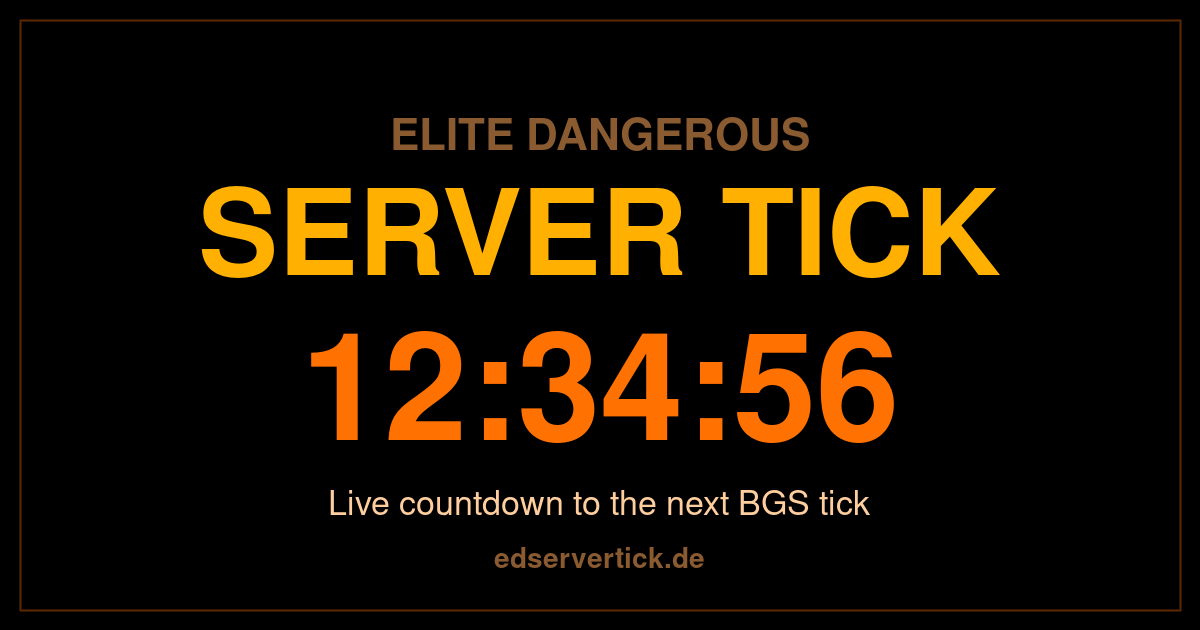
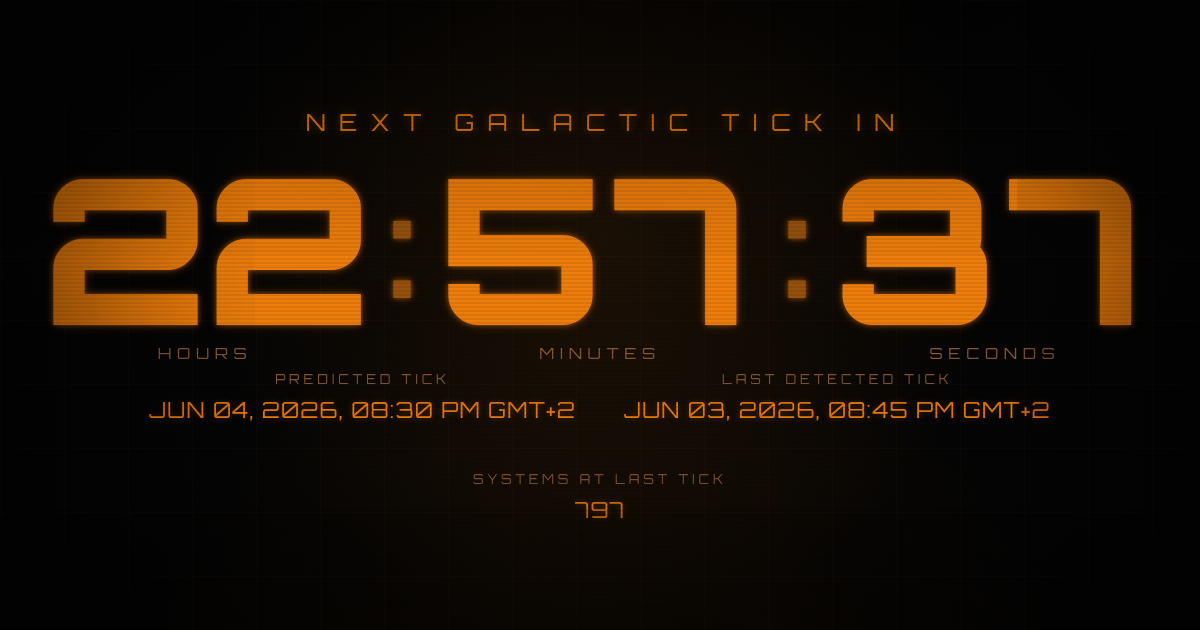
CSS Update

diff --git a/edservertick/style.css b/edservertick/style.css
@@ -153,7 +153,7 @@ body::after {
   margin-top: clamp(1.5rem, 5vh, 4rem);
 }
 .meta dt { font-size: clamp(0.5rem, 1.1vw, 0.8rem); color: var(--text-dim); letter-spacing: 0.3em; }
-.meta dd { font-size: clamp(0.85rem, 1.8vw, 1.4rem); color: var(--text); margin-top: 0.4em; text-shadow: 0 0 6px rgba(237, 125, 12,0.3); }
+.meta dd { font-size: clamp(0.85rem, 1.8vw, 1.4rem); color: var(--orange); margin-top: 0.4em; text-shadow: 0 0 6px rgba(237, 125, 12,0.3); }
 
 .scroll-hint {
   position: absolute; bottom: 3vh; left: 50%; transform: translateX(-50%);